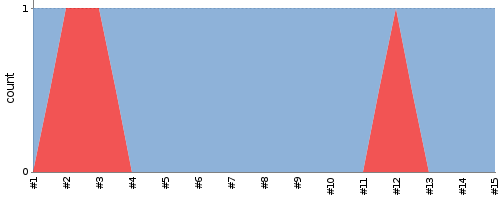
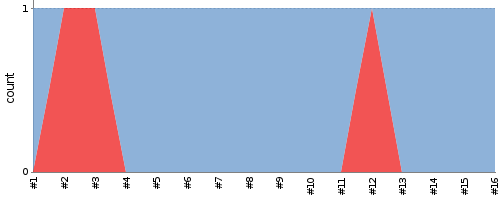
update report

diff --git a/index.md b/index.md
@@ -1,7 +1,7 @@
 ---
 layout: default
 ---
-Last update : 2016/01/30 05:20:55
+Last update : 2016/01/30 05:33:51
   
 ### Job Summary
 ___
@@ -260,11 +260,12 @@ ___
 ___
 #### Build Stability
 ![Jenkins Icon](http://jenkinshrg.github.io/images/48x48/health-80plus.png)
-80%
+81%
   
 #### Build History
 |Status|Time|Duration|Inspection|Test|Coverage|Changes|Build|Console|Image|Video|Note|
 |---|---|---|---|---|---|---|---|---|---|---|---|---|
+|![Jenkins Icon](http://jenkinshrg.github.io/images/24x24/blue.png)SUCCESS|2016/01/30 05:13|18 min.||0 err.||||[drc-wall-testbed.txt](https://drive.google.com/file/d/0B54sHwaxmuM4Yk44aFJBWHhoTms/view?usp=drivesdk)<br>|[drc-wall-testbed.png](https://drive.google.com/file/d/0B54sHwaxmuM4MWZzZnJjYWo2M00/view?usp=drivesdk)<br>|[drc-wall-testbed.ogv](https://drive.google.com/file/d/0B54sHwaxmuM4dXZZT29nQlhCZ1U/view?usp=drivesdk)<br>||
 |![Jenkins Icon](http://jenkinshrg.github.io/images/24x24/blue.png)SUCCESS|2016/01/30 04:13|18 min.||0 err.||||[drc-wall-testbed.txt](https://drive.google.com/file/d/0B54sHwaxmuM4RU9sRHdfN185d0k/view?usp=drivesdk)<br>|[drc-wall-testbed.png](https://drive.google.com/file/d/0B54sHwaxmuM4LXJKbERPNXVCUU0/view?usp=drivesdk)<br>|[drc-wall-testbed.ogv](https://drive.google.com/file/d/0B54sHwaxmuM4eG5NbzJpcVRXbDA/view?usp=drivesdk)<br>||
 |![Jenkins Icon](http://jenkinshrg.github.io/images/24x24/blue.png)SUCCESS|2016/01/30 03:13|18 min.||0 err.||||[drc-wall-testbed.txt](https://drive.google.com/file/d/0B54sHwaxmuM4a3lsMU5COUhfNnc/view?usp=drivesdk)<br>|[drc-wall-testbed.png](https://drive.google.com/file/d/0B54sHwaxmuM4WkhmNFN3VTJmbUU/view?usp=drivesdk)<br>|[drc-wall-testbed.ogv](https://drive.google.com/file/d/0B54sHwaxmuM4Mlk0WVNMZlc4ZVU/view?usp=drivesdk)<br>||
 |![Jenkins Icon](http://jenkinshrg.github.io/images/24x24/blue.png)SUCCESS|2016/01/30 02:13|18 min.||0 err.||||[drc-wall-testbed.txt](https://drive.google.com/file/d/0B54sHwaxmuM4VHlDLXlCRWJpTUE/view?usp=drivesdk)<br>|[drc-wall-testbed.png](https://drive.google.com/file/d/0B54sHwaxmuM4aV9NZjgzS2Z5eW8/view?usp=drivesdk)<br>|[drc-wall-testbed.ogv](https://drive.google.com/file/d/0B54sHwaxmuM4cF9semNhOTk2YUk/view?usp=drivesdk)<br>||
